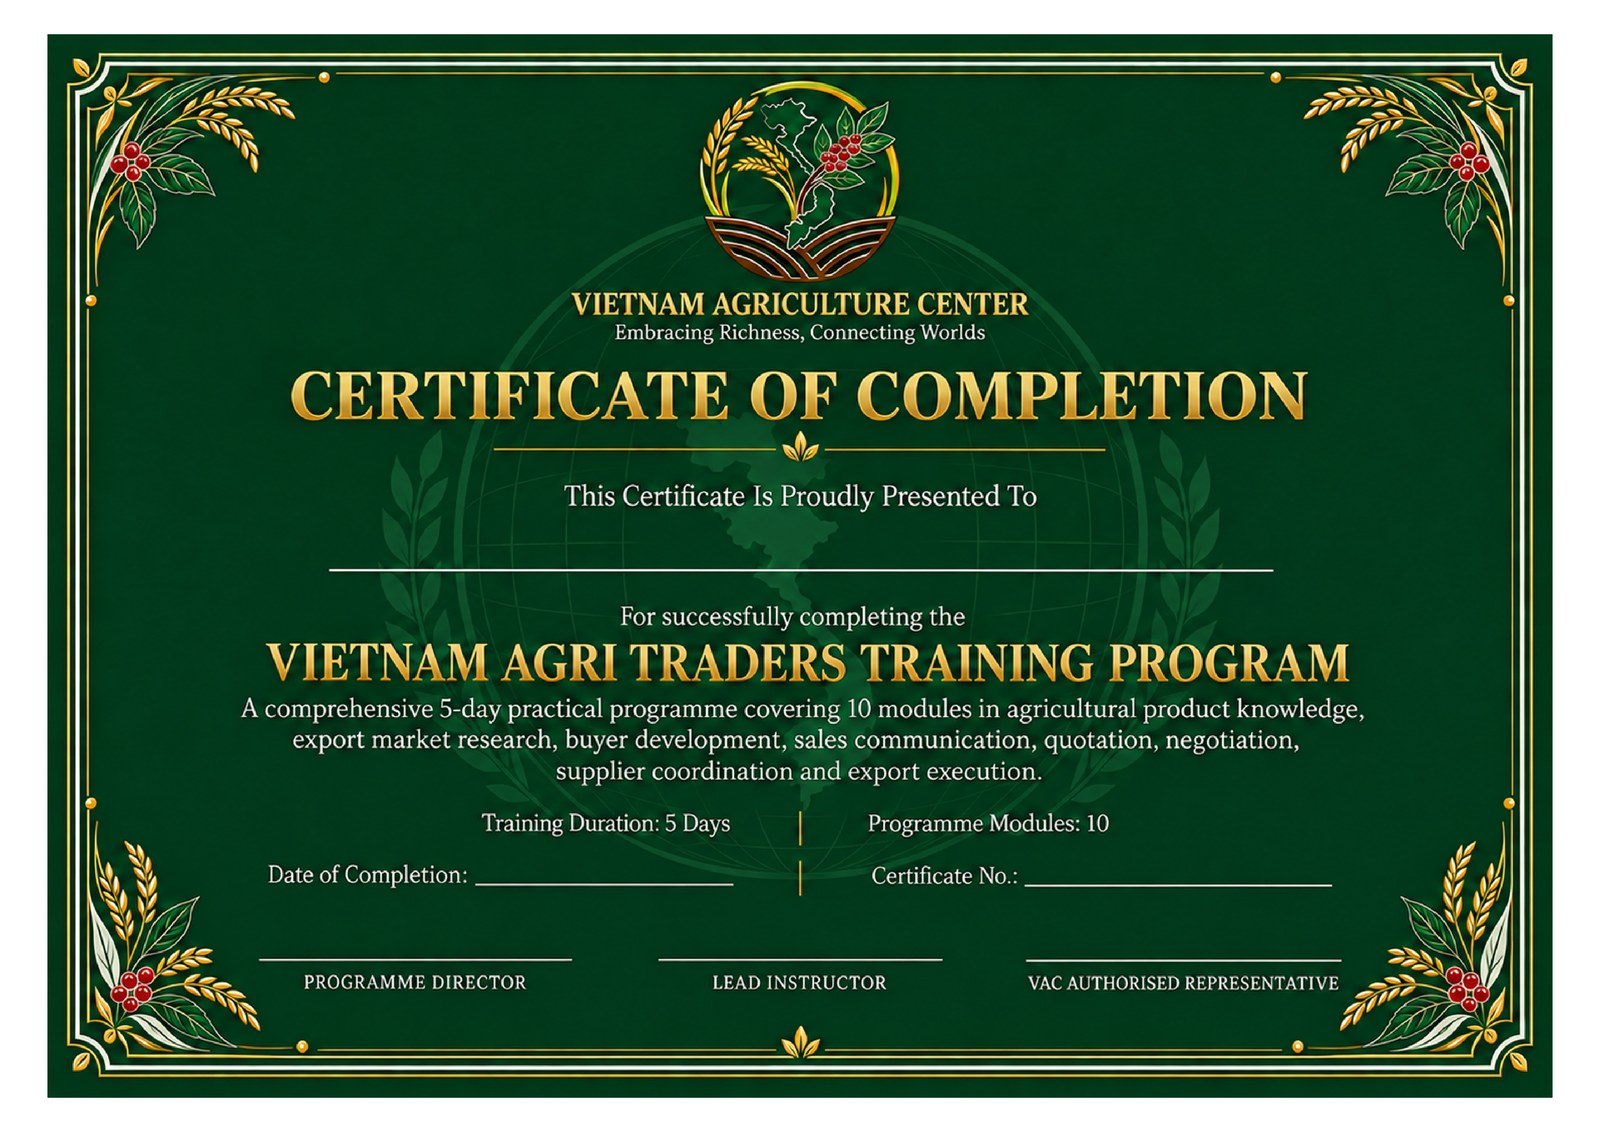
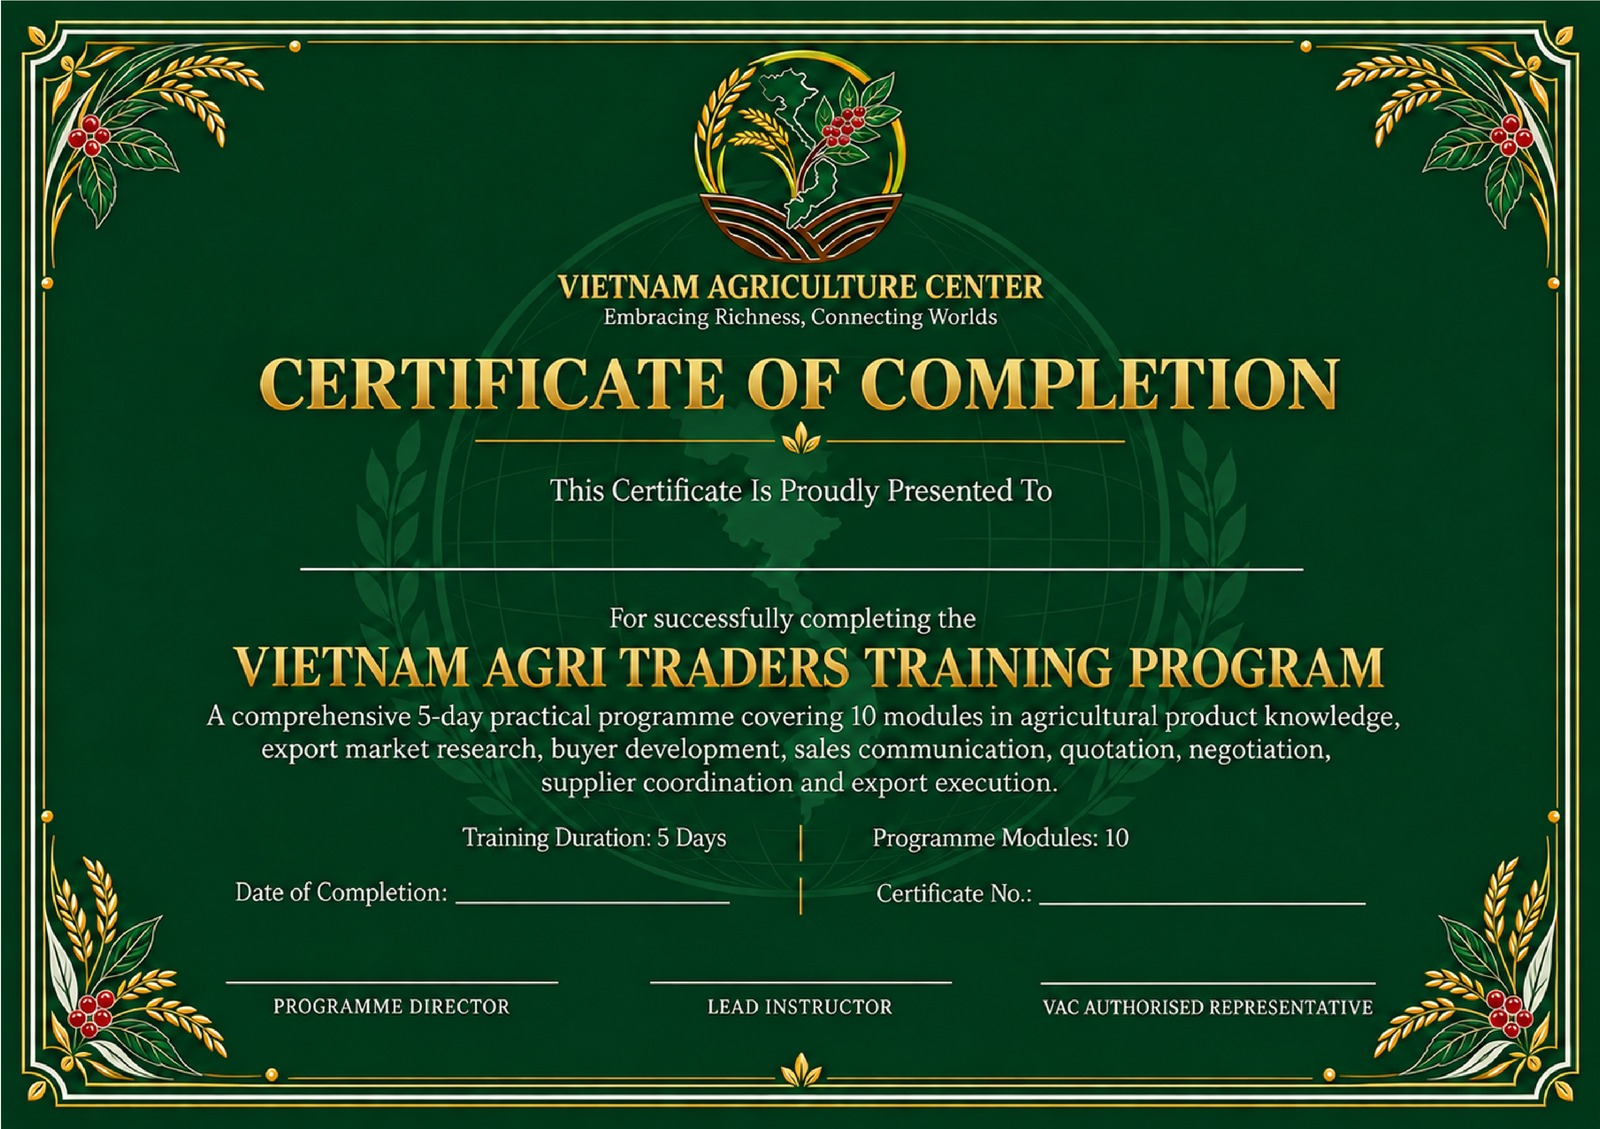
Fit certificate subtitle on single line and crop white margin around certificate image

diff --git a/src/pages/TrainingProgram.tsx b/src/pages/TrainingProgram.tsx
@@ -531,14 +531,14 @@ export const TrainingProgram: React.FC = () => {
         <div className="absolute inset-0 z-0 bg-[radial-gradient(ellipse_at_center,_var(--tw-gradient-stops))] from-forest/20 via-transparent to-transparent opacity-60" />
         <div className="max-w-5xl mx-auto flex flex-col gap-10 items-center text-center relative z-10">
           
-          <div className="flex flex-col gap-3 max-w-3xl">
+          <div className="flex flex-col gap-3 max-w-5xl">
             <span className="text-xs font-bold uppercase tracking-widest text-gold-warm">
               {t('training.certEyebrow')}
             </span>
             <h2 className="font-serif text-2xl sm:text-3xl md:text-4xl font-bold text-cream">
               {t('training.certTitle')}
             </h2>
-            <p className="text-sm md:text-base text-cream/80 font-light leading-relaxed max-w-2xl mx-auto">
+            <p className="text-xs sm:text-sm md:text-base text-cream/90 font-light leading-relaxed max-w-none sm:whitespace-nowrap inline-block mx-auto">
               {t('training.certSubtitle')}
             </p>
           </div>
@@ -549,13 +549,13 @@ export const TrainingProgram: React.FC = () => {
             whileInView={{ opacity: 1, y: 0 }}
             viewport={{ once: true }}
             transition={{ duration: 0.7 }}
-            className="w-full max-w-4xl bg-carbon/80 border border-gold-warm/40 rounded-2xl p-3 md:p-4 shadow-2xl backdrop-blur-sm group hover:border-gold-warm/70 transition-all"
+            className="w-full max-w-4xl bg-carbon/90 border border-gold-warm/35 rounded-xl p-1 md:p-1.5 shadow-2xl backdrop-blur-sm group hover:border-gold-warm/60 transition-all"
           >
-            <div className="relative overflow-hidden rounded-xl border border-gold-warm/20 bg-black">
+            <div className="relative overflow-hidden rounded-lg border border-gold-warm/20 bg-carbon">
               <img 
                 src="/images/training_certificate.jpg" 
                 alt="Certificate of Completion - Vietnam Agri Traders Training Program" 
-                className="w-full h-auto object-contain rounded-xl shadow-lg transform transition-transform duration-700 group-hover:scale-[1.01]"
+                className="w-full h-auto object-contain rounded-lg shadow-md transform transition-transform duration-700 group-hover:scale-[1.005]"
               />
             </div>
           </motion.div>

diff --git a/dist/index.html b/dist/index.html
@@ -30,8 +30,8 @@
     <link rel="preconnect" href="https://fonts.googleapis.com">
     <link rel="preconnect" href="https://fonts.gstatic.com" crossorigin>
     <link href="https://fonts.googleapis.com/css2?family=Cormorant+Garamond:ital,wght@0,300;0,400;0,500;0,600;0,700;1,300;1,400;1,500;1,600;1,700&amp;family=Inter:wght@300;400;500;600;700;800&amp;display=swap" rel="stylesheet">
-    <script type="module" crossorigin src="/assets/index-D9aLXgm0.js"></script>
-    <link rel="stylesheet" crossorigin href="/assets/index-BL1m42tl.css">
+    <script type="module" crossorigin src="/assets/index-CaKMBFCQ.js"></script>
+    <link rel="stylesheet" crossorigin href="/assets/index-BqfQLK77.css">
   </head>
   <body class="bg-[#FAF7EF] text-[#050403] font-sans antialiased">
     <div id="root"></div>
